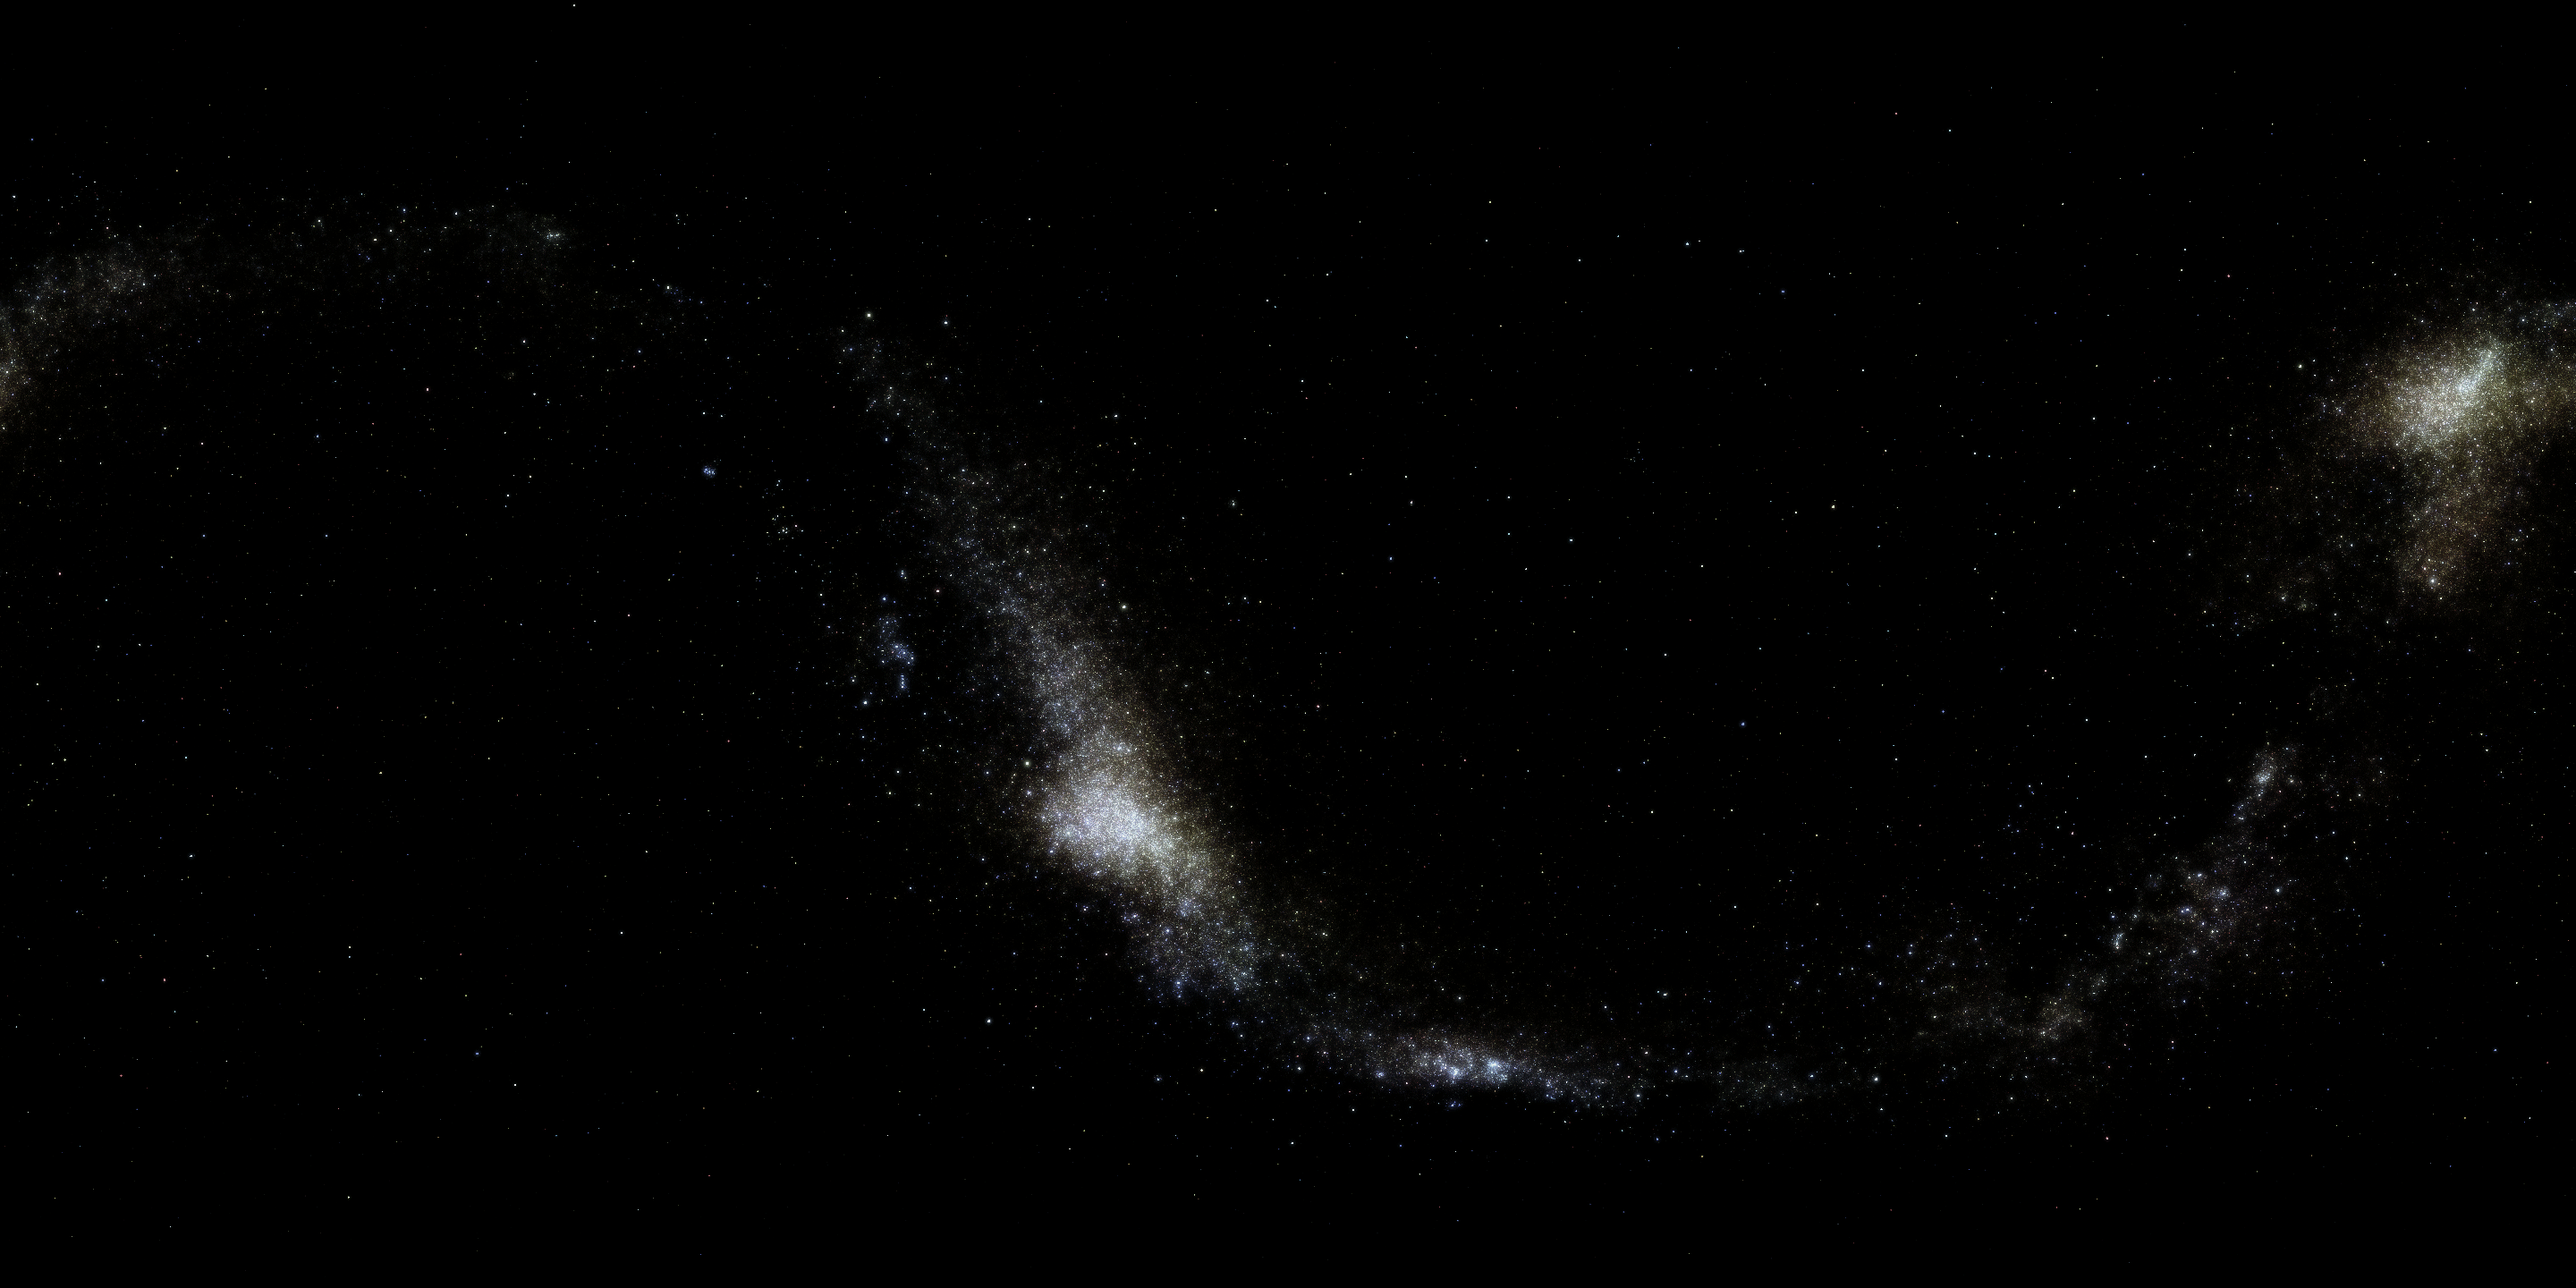
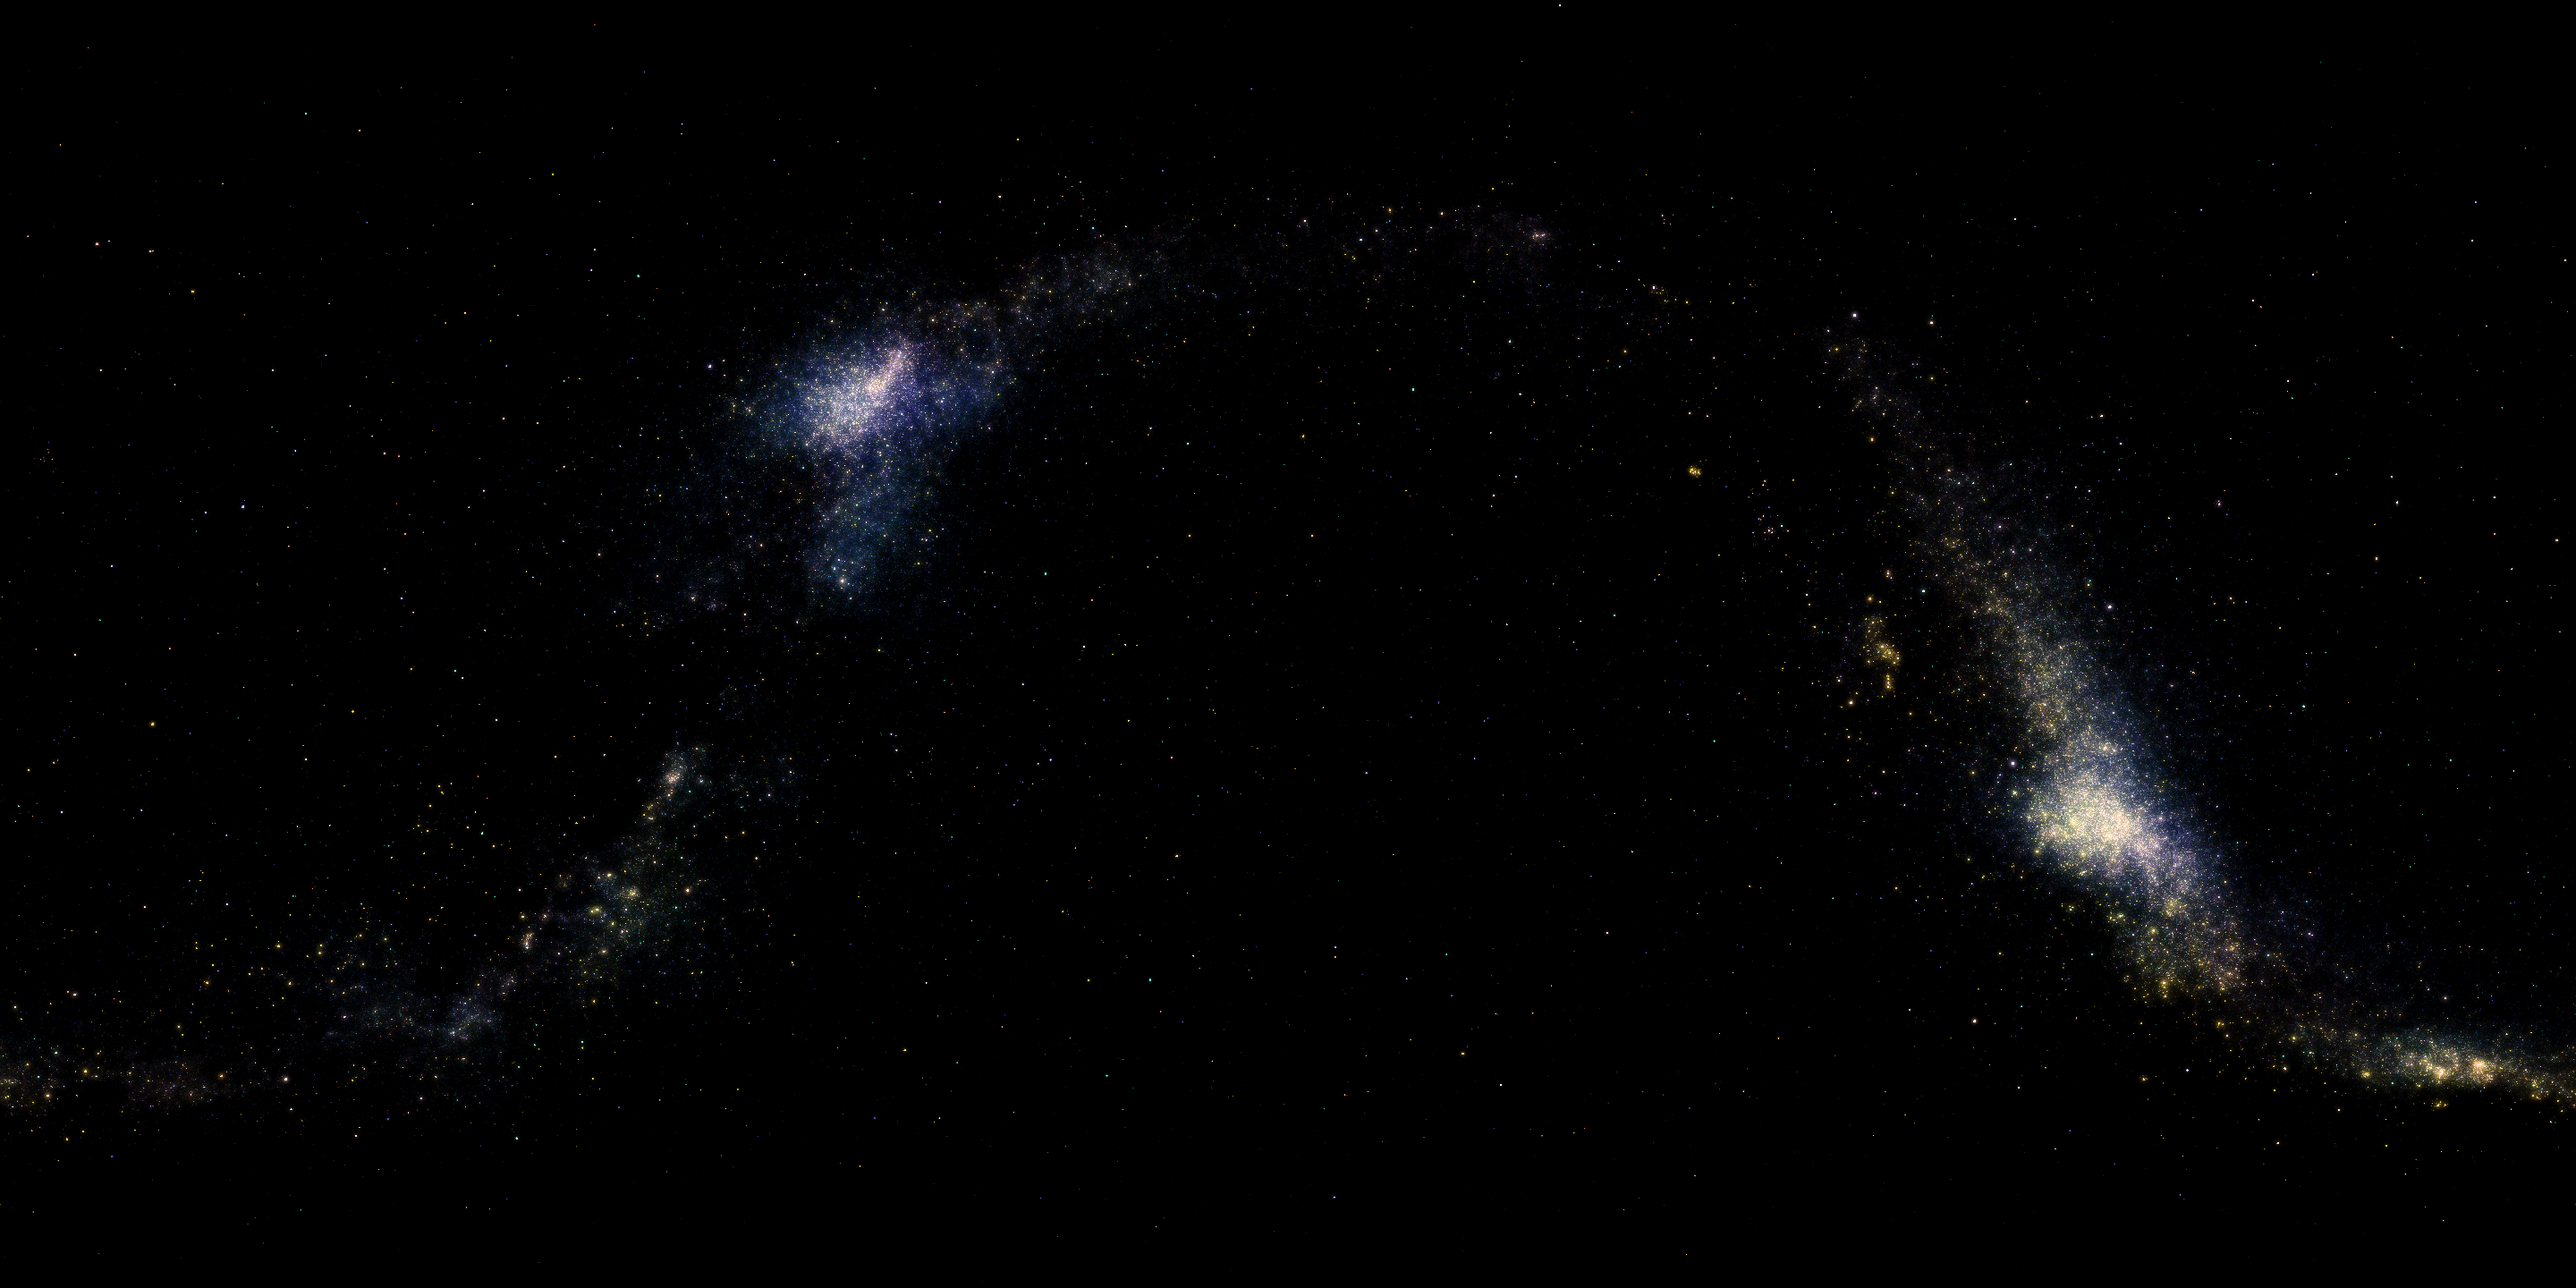
Slightly tweaked galaxy textures
...such that the wormhole is more pronounced at the very start.

diff --git a/js/main.js b/js/main.js
@@ -34,8 +34,8 @@ var uniforms = {
   "planetSpecular": { type: "v3", value: new THREE.Vector3(0.2,0.5,0.5) },
   
   "texSaturn":  { type: "t", value: THREE.ImageUtils.loadTexture("saturn.jpg") },
-  "texGalaxy1":  { type: "t", value: THREE.ImageUtils.loadTexture("galaxy2.png") },
-  "texGalaxy2":  { type: "t", value: THREE.ImageUtils.loadTexture("galaxy.png") },
+  "texGalaxy1":  { type: "t", value: THREE.ImageUtils.loadTexture("galaxy1.png") },
+  "texGalaxy2":  { type: "t", value: THREE.ImageUtils.loadTexture("galaxy2.png") },
   
   "lightDirection": { type: "v3", value: new THREE.Vector3(-1, 0, 0) },
   
